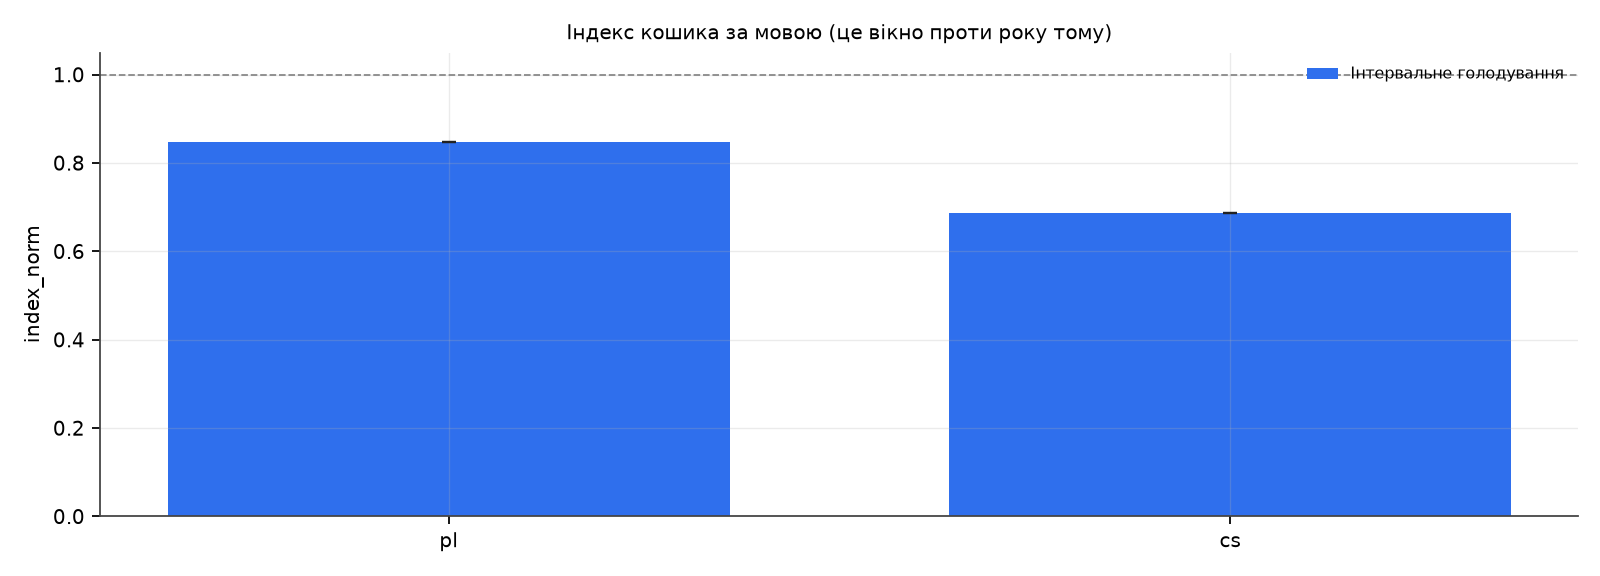
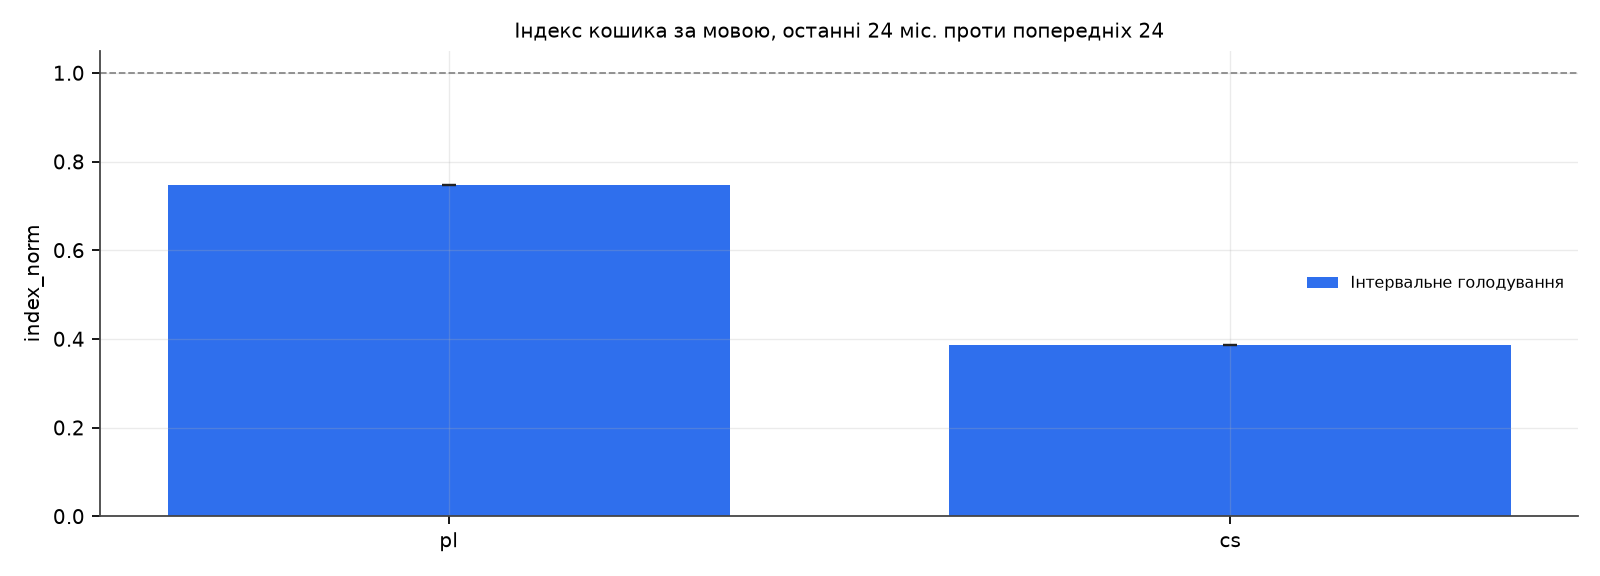
analyze: the window's base never overlaps the window (found by a Haiku run)
With a 24-month window the base was the same 24 months one year earlier, so
09.2024–08.2025 was in both and the change was understated. The base is now
ceil(months/12) whole years back (dates.window_shift_years): 12 months → the
previous 12, 24 → the previous 24, 18 → the same months two years back (a
6-month gap); still a multiple of 12, so seasonality stays removed. A baseline
year that would overlap the window is an input error that names the latest
allowed year. metrics.json records spec.window.base_shift_years; the chart
title and the appendix state the real comparison ("last 24 months vs the
previous 24") instead of "vs a year earlier".

Haiku's scenario B spec (evals/runs/haiku/B-with-skill/analysis.json), same
live data, before → after:
  comparable basket pl  change_norm -16% → -32%
  comparable basket cs  change_norm -15% → -25%
  pl vs cs (same QIDs)  0.98 [0.90; 1.14] → 0.91 [0.79; 1.14]
  cs intermittent fasting article  -31% → -61%

Example B (24-month window) regenerated; its narrative no longer says "vs a
year ago". Tests: base bounds for 12/24/18 months, overlapping baseline error,
labels.

diff --git a/src/wiki_interest/report/appendix.py b/src/wiki_interest/report/appendix.py
@@ -8,6 +8,7 @@ from typing import Any
 
 from .. import __version__
 from ..analyze.quality import CONFIDENCE_RULES
+from ..dates import window_label, window_shift_years
 from .fmt import fmt_ci, fmt_pct, fmt_x
 
 KNOWN_LIMITATIONS_EN = """\
@@ -38,8 +39,9 @@ METHODOLOGY_EN = """\
 - **Data:** Wikimedia Pageviews API, human (`user`) views, daily, from {history_start}; project totals for
   normalization. Redirect and former-title views are added to the main title (main-title series only for
   bot/device shares).
-- **Window:** last {months} complete months vs the same calendar months one year earlier (removes
-  seasonality); baseline years compare the same months again in each listed year.
+- **Window:** {window_label} (complete months; the base is {shift} whole year(s) back, so it never
+  overlaps the window and the same calendar months are compared — no seasonality); baseline years
+  compare the same months again in each listed year.
 - **Panel:** articles created before the base period, with complete data and at least
   `min_monthly_views`={min_monthly_views} average monthly views in the base period.
 - **index_norm:** geometric mean over panel articles of (current+1)/(base+1), divided by the same ratio of
@@ -62,8 +64,9 @@ METHODOLOGY_UK = """\
 - **Дані:** Wikimedia Pageviews API, перегляди людей (`user`), щодня, з {history_start}; агрегати розділу для
   нормалізації. Перегляди редиректів і колишніх назв додано до основної назви (для часток ботів/пристроїв —
   лише основна стаття).
-- **Вікно:** останні {months} повних місяців проти тих самих календарних місяців роком раніше (прибирає
-  сезонність); бази з `baselines` порівнюють ті самі місяці в кожному вказаному році.
+- **Вікно:** {window_label} (повні місяці; база зсунута на {shift} ціл. р., тож не перекривається з вікном
+  і порівнює ті самі календарні місяці — сезонність прибрано); бази з `baselines` порівнюють ті самі місяці
+  в кожному вказаному році.
 - **Панель:** статті, створені до початку базового періоду, з повними даними й не менш ніж
   `min_monthly_views`={min_monthly_views} переглядів на місяць у середньому за базовий період.
 - **index_norm:** середнє геометричне по статтях панелі відношення (поточне+1)/(попереднє+1), поділене на
@@ -80,6 +83,10 @@ METHODOLOGY_UK = """\
 - **Правила довіри:**
 {confidence_rules}
 """
+
+
+def _shift(spec: dict[str, Any]) -> int:
+    return spec["window"].get("base_shift_years") or window_shift_years(spec["window"]["months"])
 
 
 def _confidence_rules_text(lang: str) -> str:
@@ -185,6 +192,8 @@ def build_appendix(metrics: dict[str, Any], report_lang: str) -> str:
     methodology = template.format(
         history_start=sp["history_start"],
         months=sp["window"]["months"],
+        shift=_shift(sp),
+        window_label=window_label(sp["window"]["months"], _shift(sp), report_lang),
         min_monthly_views=metrics["params"]["min_monthly_views"]["value"],
         bootstrap=metrics["params"]["bootstrap"]["value"],
         seed=metrics["params"]["seed"]["value"],

diff --git a/src/wiki_interest/report/charts.py b/src/wiki_interest/report/charts.py
@@ -12,6 +12,7 @@ matplotlib.use("Agg")
 import matplotlib.pyplot as plt  # noqa: E402
 import matplotlib.ticker as mticker  # noqa: E402
 
+from ..dates import window_label, window_shift_years
 from . import fonts
 
 TARGET_COLOR = "#2f6fed"
@@ -38,7 +39,7 @@ def _basket_labels(basket_info: dict[str, Any]) -> dict[str, str]:
     return {bid: info["label"] for bid, info in basket_info.items()}
 
 
-def history_and_window_chart(basket_info: dict[str, Any], baskets: dict[str, Any], lang: str, out_path: Path, report_lang: str) -> None:
+def history_and_window_chart(basket_info: dict[str, Any], baskets: dict[str, Any], lang: str, out_path: Path, report_lang: str, window_text: str) -> None:
     """One language: long-history line for each basket (left) + window index_norm bars (right)."""
     _style()
     labels = _basket_labels(basket_info)
@@ -74,7 +75,7 @@ def history_and_window_chart(basket_info: dict[str, Any], baskets: dict[str, Any
         ax_bar.bar(xs_bar, vals, color=colors, width=0.5)
         ax_bar.errorbar(xs_bar, vals, yerr=errs_arr, fmt="none", ecolor="#222222", capsize=3, linewidth=1)
         ax_bar.axhline(1.0, color="#888888", linewidth=0.8, linestyle="--")
-    ax_bar.set_title("This window vs a year earlier" if report_lang == "en" else "Це вікно проти року тому", fontsize=9)
+    ax_bar.set_title(window_text[:1].upper() + window_text[1:], fontsize=9)
     ax_bar.set_ylabel("index_norm")
     plt.setp(ax_bar.get_xticklabels(), rotation=20, ha="right", fontsize=8)
 
@@ -83,7 +84,7 @@ def history_and_window_chart(basket_info: dict[str, Any], baskets: dict[str, Any
     plt.close(fig)
 
 
-def basket_indices_chart(basket_info: dict[str, Any], baskets: dict[str, Any], langs: list[str], out_path: Path, report_lang: str) -> None:
+def basket_indices_chart(basket_info: dict[str, Any], baskets: dict[str, Any], langs: list[str], out_path: Path, report_lang: str, window_text: str) -> None:
     """Several languages: basket index_norm bars grouped by language, one colour per basket."""
     _style()
     labels = _basket_labels(basket_info)
@@ -111,9 +112,7 @@ def basket_indices_chart(basket_info: dict[str, Any], baskets: dict[str, Any], l
     ax.set_xticklabels(langs)
     ax.set_ylabel("index_norm")
     ax.set_title(
-        "Basket index by language (this window vs a year earlier)"
-        if report_lang == "en"
-        else "Індекс кошика за мовою (це вікно проти року тому)",
+        ("Basket index by language, " if report_lang == "en" else "Індекс кошика за мовою, ") + window_text,
         fontsize=9,
     )
     ax.legend(fontsize=7, frameon=False)
@@ -125,8 +124,10 @@ def basket_indices_chart(basket_info: dict[str, Any], baskets: dict[str, Any], l
 def render_chart(metrics: dict[str, Any], out_path: Path, report_lang: str) -> Path:
     basket_info, baskets = metrics["basket_info"], metrics["baskets"]
     langs = metrics["spec"]["langs"]
+    w = metrics["spec"]["window"]
+    window_text = window_label(w["months"], w.get("base_shift_years") or window_shift_years(w["months"]), report_lang)
     if len(langs) == 1:
-        history_and_window_chart(basket_info, baskets, langs[0], out_path, report_lang)
+        history_and_window_chart(basket_info, baskets, langs[0], out_path, report_lang, window_text)
     else:
-        basket_indices_chart(basket_info, baskets, langs, out_path, report_lang)
+        basket_indices_chart(basket_info, baskets, langs, out_path, report_lang, window_text)
     return out_path

diff --git a/src/wiki_interest/analyze/__init__.py b/src/wiki_interest/analyze/__init__.py
@@ -5,7 +5,7 @@ basket id such as "compare" or "flags" can never collide with the file's other t
 but narrative.json placeholders drop that prefix — `report.narrative.get_path` resolves a path
 starting with a known basket id through "baskets" transparently, so a placeholder is written
 exactly as `<basket>.<lang>.<block>.<metric>`:
-  <basket>.<lang>.window                  current window vs the same months a year earlier
+  <basket>.<lang>.window                  current window vs its base: the same months ceil(N/12) years earlier
   <basket>.<lang>.baselines.<year>        current window vs the same months of <year>
   <basket>.<lang>.groups.<group>.window | .baselines.<year>
   <basket>.<lang>.confidence.window | .baselines.<year>
@@ -31,6 +31,7 @@ import pandas as pd
 
 from .. import __version__
 from ..cache import Cache
+from ..dates import window_shift_years
 from ..schemas import AnalysisSpec, load_json_file, parse_analysis_spec
 from .metrics import M, Member, comparison, history, period_months, ratio_of_indices, seasonality, sign
 from .params import describe_params, resolve_params
@@ -135,7 +136,8 @@ def run_analysis(spec: AnalysisSpec, cache: Cache, workdir: Path | None = None) 
     ds: Dataset = load_dataset(spec, cache, workdir)
     end = M(ds.data_as_of, freq="M")
     n = spec.window_months
-    periods: dict[str, tuple[list[M], list[M]]] = {"window": (period_months(end, n, 1), period_months(end, n))}
+    shift = window_shift_years(n)  # base never overlaps the window (see dates.window_shift_years)
+    periods: dict[str, tuple[list[M], list[M]]] = {"window": (period_months(end, n, shift), period_months(end, n))}
     for y in spec.baselines:
         periods[str(y)] = (period_months(end, n, end.year - y), period_months(end, n))
     first_month = M(ds.start.strftime("%Y-%m"), freq="M")
@@ -259,7 +261,7 @@ def run_analysis(spec: AnalysisSpec, cache: Cache, workdir: Path | None = None) 
             "question": spec.question,
             "spec": {
                 "langs": list(spec.langs),
-                "window": {"months": n, "end": ds.data_as_of},
+                "window": {"months": n, "end": ds.data_as_of, "base_shift_years": shift},
                 "history_start": spec.history_start,
                 "baselines": list(spec.baselines),
                 "range": {"start": ds.start.isoformat(), "end": ds.end.isoformat()},

diff --git a/tests/test_analyze.py b/tests/test_analyze.py
@@ -345,3 +345,39 @@ def test_partial_data_flag_and_article_left_out(tmp_path):
     assert "PARTIAL_DATA" in {f["code"] for f in flags_of(m, basket="target", lang="uk")}
     excluded = {e["title"]: e["reason"] for e in m["baskets"]["target"]["uk"]["window"]["panel"]["excluded"]}
     assert excluded["Стаття 2"] == "partial_data"
+
+
+@pytest.mark.parametrize(
+    "months, base, current",
+    [
+        (12, ("2023-01", "2023-12"), ("2024-01", "2024-12")),  # the previous 12 months
+        (24, ("2021-01", "2022-12"), ("2023-01", "2024-12")),  # the previous 24, no shared year
+        (18, ("2021-07", "2022-12"), ("2023-07", "2024-12")),  # same months 2 years back: a 6-month gap
+    ],
+)
+def test_window_base_never_overlaps(tmp_path, months, base, current):
+    """A Haiku run with a 24-month window showed the base (same 24 months a year earlier) sharing a
+    year with the window, which understated the change. The base shift is ceil(months/12) years."""
+    path = synth.build(tmp_path)
+    with Cache(path) as cache:
+        m = run_analysis(parse_analysis_spec(synth.spec(window={"months": months, "end": "2024-12"}, baselines=[])), cache)
+    w = m["baskets"]["target"]["uk"]["window"]
+    assert w["periods"] == {"base": list(base), "current": list(current)}
+    assert w["periods"]["base"][1] < w["periods"]["current"][0]
+    assert m["spec"]["window"]["base_shift_years"] == -(-months // 12)
+
+
+def test_baseline_overlapping_the_window_is_an_input_error(tmp_path):
+    path = synth.build(tmp_path)
+    with Cache(path) as cache, pytest.raises(InputError) as ei:
+        # 24-month window ending 2024-12 covers 2023-2024; a 2023 baseline would overlap it.
+        run_analysis(parse_analysis_spec(synth.spec(window={"months": 24, "end": "2024-12"}, baselines=[2023])), cache)
+    assert "overlap" in ei.value.message and "2022 or earlier" in ei.value.hint
+
+
+def test_window_labels_show_the_real_shift():
+    from wiki_interest.dates import window_label
+
+    assert window_label(24, 2, "en") == "last 24 months vs the previous 24"
+    assert window_label(12, 1, "uk") == "останні 12 міс. проти попередніх 12"
+    assert window_label(18, 2, "en") == "last 18 months vs the same months 2 years earlier"

diff --git a/src/wiki_interest/fetch.py b/src/wiki_interest/fetch.py
@@ -38,7 +38,7 @@ from .config import (
     SECONDS_PER_REQUEST_WITHOUT_CONTACT,
     latest_full_month,
 )
-from .dates import add_months, day, first_day, gaps, iso, last_day
+from .dates import add_months, day, first_day, gaps, iso, last_day, window_shift_years
 from .errors import IncompleteDataError, InputError, RateLimitError, WikiInterestError
 from .http import HttpClient, parse_json
 from .resolve import Resolver, lookup_article
@@ -71,16 +71,18 @@ def data_as_of(spec: AnalysisSpec) -> str:
 
 
 def start_month(spec: AnalysisSpec, end_month: str) -> str:
-    """Earliest month needed: history_start, the same months a year before the window, and the same
-    months in each baseline year (the window shifted back so that it ends in year Y)."""
+    """Earliest month needed: history_start, the base of the window (the same months
+    window_shift_years earlier, never overlapping the window), and the same months in each baseline
+    year (the window shifted back so that it ends in year Y)."""
     end_year = int(end_month[:4])
-    late = [y for y in spec.baselines if y >= end_year]
-    if late:
+    shift = window_shift_years(spec.window_months)
+    overlapping = [y for y in spec.baselines if end_year - y < shift]
+    if overlapping:
         raise InputError(
-            f"baselines {late} are not before the window's year {end_year}",
-            hint="A baseline is an earlier year whose same months are compared with the window",
+            f"baselines {overlapping} overlap the {spec.window_months}-month window ending {end_month}",
+            hint=f"A baseline must end at least {shift} year(s) before the window's end year: use {end_year - shift} or earlier",
         )
-    shifts = [1] + [end_year - y for y in spec.baselines]
+    shifts = [shift] + [end_year - y for y in spec.baselines]
     candidates = [spec.history_start] + [add_months(end_month, -(12 * k + spec.window_months - 1)) for k in shifts]
     return max(min(candidates), f"{PAGEVIEWS_START:%Y-%m}")
 

diff --git a/src/wiki_interest/dates.py b/src/wiki_interest/dates.py
@@ -36,6 +36,22 @@ def last_day(month: str) -> dt.date:
     return dt.date(y, m, calendar.monthrange(y, m)[1])
 
 
+def window_shift_years(months: int) -> int:
+    """Whole years between a window and its base: at least the window's length, so the base never
+    overlaps the window (a 24-month window a year back would share a year with it and understate the
+    change), and a multiple of 12 months, so the same calendar months are compared (no seasonality)."""
+    return -(-months // 12)
+
+
+def window_label(months: int, shift_years: int, lang: str) -> str:
+    """"last 24 months vs the previous 24" / "last 18 months vs the same months 2 years earlier"."""
+    if shift_years * 12 == months:
+        return {"en": f"last {months} months vs the previous {months}",
+                "uk": f"останні {months} міс. проти попередніх {months}"}[lang]
+    return {"en": f"last {months} months vs the same months {shift_years} year{'s' if shift_years > 1 else ''} earlier",
+            "uk": f"останні {months} міс. проти тих самих місяців {shift_years} р. тому"}[lang]
+
+
 def iso(d: dt.date) -> str:
     return d.isoformat()
 

diff --git a/examples/B-fasting/out/appendix.md b/examples/B-fasting/out/appendix.md
@@ -14,8 +14,9 @@
 - **Дані:** Wikimedia Pageviews API, перегляди людей (`user`), щодня, з 2016-01; агрегати розділу для
   нормалізації. Перегляди редиректів і колишніх назв додано до основної назви (для часток ботів/пристроїв —
   лише основна стаття).
-- **Вікно:** останні 24 повних місяців проти тих самих календарних місяців роком раніше (прибирає
-  сезонність); бази з `baselines` порівнюють ті самі місяці в кожному вказаному році.
+- **Вікно:** останні 24 міс. проти попередніх 24 (повні місяці; база зсунута на 2 ціл. р., тож не перекривається з вікном
+  і порівнює ті самі календарні місяці — сезонність прибрано); бази з `baselines` порівнюють ті самі місяці
+  в кожному вказаному році.
 - **Панель:** статті, створені до початку базового періоду, з повними даними й не менш ніж
   `min_monthly_views`=30 переглядів на місяць у середньому за базовий період.
 - **index_norm:** середнє геометричне по статтях панелі відношення (поточне+1)/(попереднє+1), поділене на
@@ -63,9 +64,9 @@
 |---|---|---|---|
 | NEW_ARTICLE | info | target.cs | created after history_start: Přerušovaný půst |
 | PANEL_SMALL | warning | target.cs.baseline:2022 | no estimate (empty_panel); panel has 0 articles |
-| ANOMALY_MONTHS | warning | target.cs.window | anomalous months inside the compared periods: 2025-04, 2025-04, 2025-09, 2025-12 |
+| ANOMALY_MONTHS | warning | target.cs.window | anomalous months inside the compared periods: 2025-04, 2025-09, 2025-12 |
 | BOT_RECLASSIFICATION_2025 | info | target.cs.window | compared periods include March-August 2025, when Wikimedia reclassified bot traffic |
-| BOT_SUSPECT | warning | target.cs.window | automated jumps or bot-like spikes in: 2025-05, 2025-05, 2026-06 |
+| BOT_SUSPECT | warning | target.cs.window | automated jumps or bot-like spikes in: 2025-05, 2026-06 |
 | PANEL_SMALL | warning | target.cs.window | 1 articles in the panel (min_panel 5) |
 | ARTICLE_MISSING | warning | target.pl | no article in pl.wikipedia for: Q1666254 |
 | PROXY_USED | warning | target.pl | non-equivalent substitutes: pl:Głodówka lecznicza (for Q1666254) |
@@ -73,16 +74,15 @@
 | BOT_SUSPECT | warning | target.pl.baseline:2022 | automated jumps or bot-like spikes in: 2025-07, 2025-09, 2026-06, 2026-07 |
 | PANEL_SMALL | warning | target.pl.baseline:2022 | 1 articles in the panel (min_panel 5) |
 | BOT_RECLASSIFICATION_2025 | info | target.pl.window | compared periods include March-August 2025, when Wikimedia reclassified bot traffic |
-| BOT_SUSPECT | warning | target.pl.window | automated jumps or bot-like spikes in: 2025-07, 2025-07, 2025-09, 2026-06, 2026-07 |
-| LOW_VOLUME | warning | target.pl.window | median monthly views of the panel in the base period are below low_volume_month |
+| BOT_SUSPECT | warning | target.pl.window | automated jumps or bot-like spikes in: 2025-07, 2025-09, 2026-06, 2026-07 |
 | PANEL_SMALL | warning | target.pl.window | 1 articles in the panel (min_panel 5) |
 
 ## Стійкість (change_norm за варіантом)
 
 | basket | lang | window | loo_min | loo_max | no_top3 | median | no_spikes | no_anomalies |
 |---|---|---|---|---|---|---|---|---|
-| target | cs | −31% | — | — | — | −31% | −35% | −34% |
-| target | pl | −15% | — | — | — | −15% | −15% | — |
+| target | cs | −61% | — | — | — | −61% | −66% | −66% |
+| target | pl | −25% | — | — | — | −25% | −25% | — |
 
 ## Джерела
 
